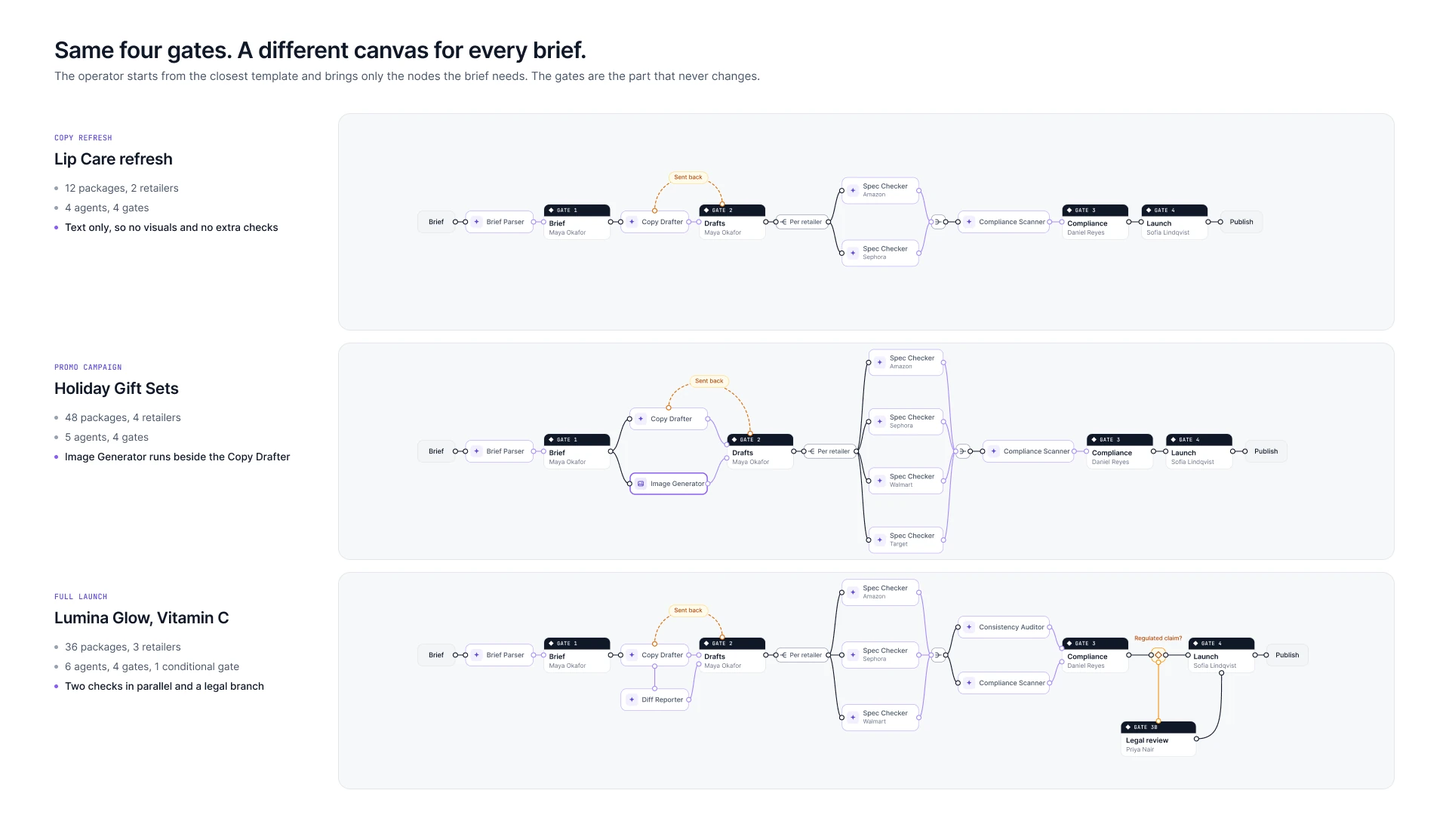
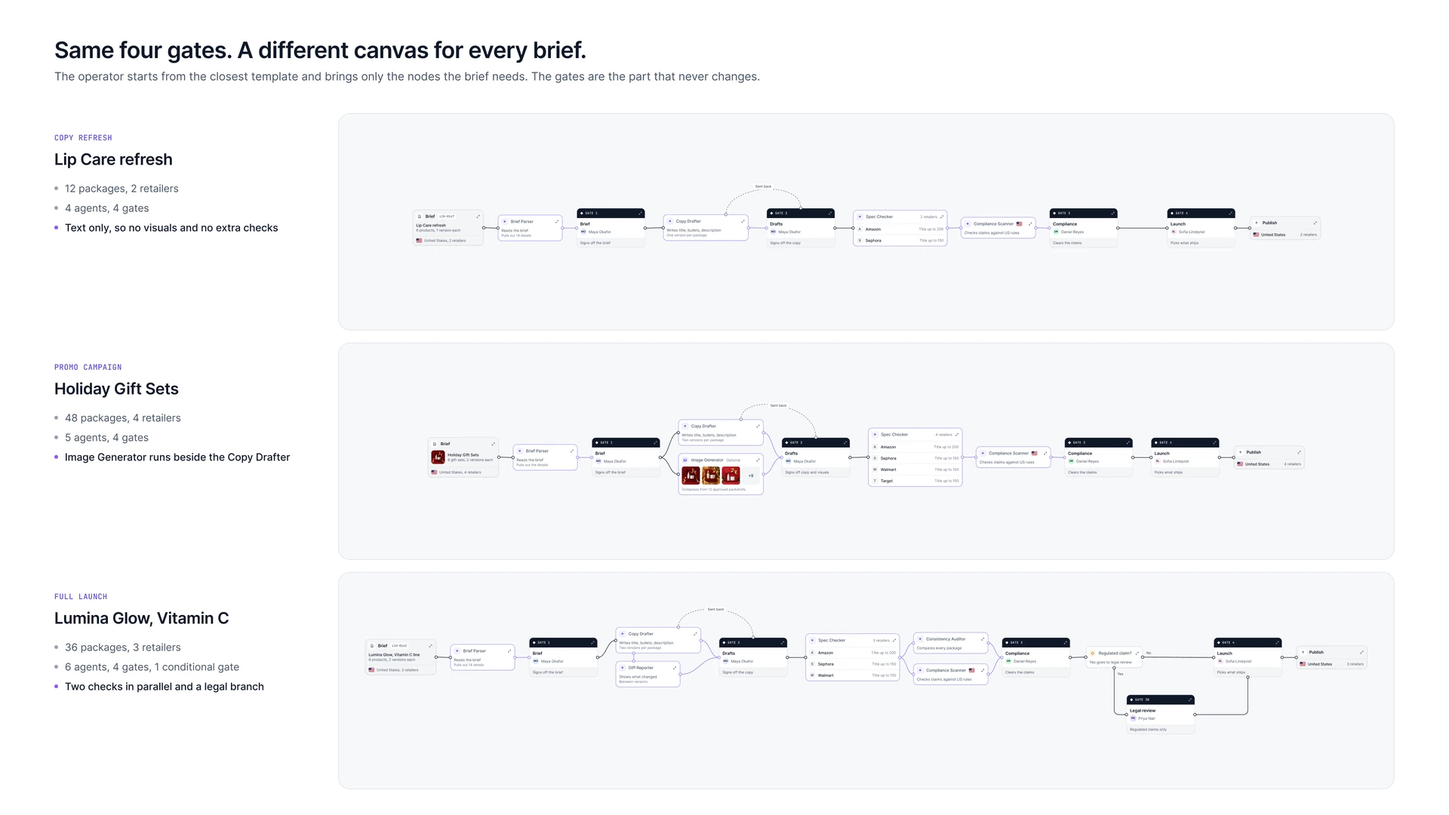
ShelfFlow: Home, three canvases, gates and Lab in the current design language
Home cards carry the launch stepper, the three canvases comparison is rebuilt
with the current nodes, Gate 1, Gate 3 evidence, Audit trail and the scope step
use the shared vocabulary, and the Lab demo draws gates with the timeline code.

Claude-Session: https://claude.ai/code/session_01HvDhLV3ZoERkt8nS9QeULq

diff --git a/work/shelfflow.html b/work/shelfflow.html
@@ -10,7 +10,7 @@
 <meta name="description" content="The supervision interface for an agentic content pipeline. Six AI agents, four human gates, 36 retailer-ready packages per brief. A case study by Inigo Angulo.">
 <meta property="og:title" content="ShelfFlow / Inigo Angulo">
 <meta property="og:description" content="The supervision interface for an agentic content pipeline. Six AI agents, four human gates, 36 retailer-ready packages per brief.">
-<meta property="og:image" content="https://inigoangulo.com/img/shelfflow/og.png?v=1125e">
+<meta property="og:image" content="https://inigoangulo.com/img/shelfflow/og.png?v=1125f">
 <meta property="og:image:width" content="1200">
 <meta property="og:image:height" content="630">
 <meta property="og:type" content="article">
@@ -18,7 +18,7 @@
 <meta name="twitter:card" content="summary_large_image">
 <meta name="twitter:title" content="ShelfFlow / Inigo Angulo">
 <meta name="twitter:description" content="The supervision interface for an agentic content pipeline. Six AI agents, four human gates, 36 retailer-ready packages per brief.">
-<meta name="twitter:image" content="https://inigoangulo.com/img/shelfflow/og.png?v=1125e">
+<meta name="twitter:image" content="https://inigoangulo.com/img/shelfflow/og.png?v=1125f">
 <link rel="preconnect" href="https://fonts.googleapis.com">
 <link rel="preconnect" href="https://fonts.gstatic.com" crossorigin>
 <link href="https://fonts.googleapis.com/css2?family=JetBrains+Mono:wght@300;400;500;600;700&family=IBM+Plex+Sans:wght@400;500;600;700&display=swap" rel="stylesheet">
@@ -89,7 +89,7 @@
   <p class="cs__sub" style="margin:-16px 0 32px;font-size:.78rem;color:var(--t3)">How to read the numbers: client figures are under NDA. "Weeks to days" is the target the product was designed for, not a published result. The numbers in the cards come from the demo launch shown in the screens: Lumina Glow, 6 SKUs, 3 retailers, 2 variants.</p>
 
   <!-- Hero visual -->
-  <div class="cs__img cs__img--wide" data-reveal><img src="../img/shelfflow/cover.png?v=1125e" alt="ShelfFlow canvas in Build mode: a library of agents and gates, and the start of the pipeline as a row of nodes with a sent back loop, above a minimap of the whole flow"></div>
+  <div class="cs__img cs__img--wide" data-reveal><img src="../img/shelfflow/cover.png?v=1125f" alt="ShelfFlow canvas in Build mode: a library of agents and gates, and the start of the pipeline as a row of nodes with a sent back loop, above a minimap of the whole flow"></div>
   <p class="cs__img-cap">The canvas for one launch. Violet nodes are agents, black ones are gates with a person's name on them.</p>
 
 
@@ -350,71 +350,71 @@
     </div>
 
   <div class="cs__screens" data-reveal>
-    <div class="cs__screen"><img src="../img/shelfflow/v4/build-place.webp?v=1125e" alt="Dragging a condition from the library onto an edge of the pipeline" width="1920" height="1080" loading="lazy" decoding="async"><span class="cs__screen-label">Place a node / the edge shows where it fits</span></div>
-    <div class="cs__screen"><img src="../img/shelfflow/v4/build-connect.webp?v=1125e" alt="Pulling a connection from the condition to a new legal review gate" width="1920" height="1080" loading="lazy" decoding="async"><span class="cs__screen-label">Connect a node / the socket shows where it lands</span></div>
+    <div class="cs__screen"><img src="../img/shelfflow/v4/build-place.webp?v=1125f" alt="Dragging a condition from the library onto an edge of the pipeline" width="1920" height="1080" loading="lazy" decoding="async"><span class="cs__screen-label">Place a node / the edge shows where it fits</span></div>
+    <div class="cs__screen"><img src="../img/shelfflow/v4/build-connect.webp?v=1125f" alt="Pulling a connection from the condition to a new legal review gate" width="1920" height="1080" loading="lazy" decoding="async"><span class="cs__screen-label">Connect a node / the socket shows where it lands</span></div>
   </div>
   <p class="cs__img-cap">Adding a branch. A condition dropped between Gate 3 and Gate 4 sends regulated claims through a legal gate, and the launch cannot run until that gate has an owner.</p>
-  <div class="cs__img" data-reveal><img src="../img/shelfflow/v4/build-refuse.webp?v=1125e" alt="The canvas refusing a connection from an agent straight to Publish" width="1920" height="1080" loading="lazy" decoding="async"></div>
+  <div class="cs__img" data-reveal><img src="../img/shelfflow/v4/build-refuse.webp?v=1125f" alt="The canvas refusing a connection from an agent straight to Publish" width="1920" height="1080" loading="lazy" decoding="async"></div>
   <p class="cs__img-cap">A line from an agent to Publish. The canvas refuses it and says why.</p>
     <div class="cs__section-text">
       <p>A real launch does not fit on one screen, and the canvas does not pretend it does. The flow reads in one direction and the operator pans along it, the way they would in any design tool. A minimap keeps the whole pipeline in view and marks the gate that is waiting. Each kind of node shows what it carries: a brief shows the product and where it sells, an agent shows what it made, a gate shows who signs.</p>
     </div>
 
-  <div class="cs__img" data-reveal><img src="../img/shelfflow/v6/run-live.webp?v=1125e" alt="The canvas in the middle of a run, panned to the checks: the Spec Checker is working through three retailers, later steps are joined by dotted lines, and a minimap in the corner shows the whole flow" width="1920" height="1080" loading="lazy" decoding="async"></div>
+  <div class="cs__img" data-reveal><img src="../img/shelfflow/v6/run-live.webp?v=1125f" alt="The canvas in the middle of a run, panned to the checks: the Spec Checker is working through three retailers, later steps are joined by dotted lines, and a minimap in the corner shows the whole flow" width="1920" height="1080" loading="lazy" decoding="async"></div>
   <p class="cs__img-cap">The same canvas halfway through a run, panned to the checks. Dotted lines have not run yet, the diamonds in the launch bar say which gate the launch has reached, and the minimap shows where this view sits in the whole flow.</p>
-  <div class="cs__img" data-reveal><img src="../img/shelfflow/v6/gate-timeline.webp?v=1125e" alt="Five moments of a gate shown in its header: Done in light grey, Now in solid dark, Up next in white, Maybe with a dotted outline and Blocked in red" width="1920" height="372" loading="lazy" decoding="async"></div>
+  <div class="cs__img" data-reveal><img src="../img/shelfflow/v6/gate-timeline.webp?v=1125f" alt="Five moments of a gate shown in its header: Done in light grey, Now in solid dark, Up next in white, Maybe with a dotted outline and Blocked in red" width="1920" height="372" loading="lazy" decoding="async"></div>
   <p class="cs__img-cap">In Build every gate is dark, because it marks where a person decides. Once the launch runs, the header tells time: finished gates go light, the one that is waiting stays dark, and a branch that may not happen is dotted. Every state also has a label, so colour is never the only signal.</p>
     <div class="cs__section-text">
       <p>Every node opens into more detail, and the canvas has to make that clear. A toolbar on every node would put around sixty controls on screen and bury the view of the whole launch. A toolbar that only appears on hover cannot be found, and does not exist on a touch screen. So visibility follows relevance, in three layers: a small mark on every node says it opens, the toolbar appears when a node is hovered or selected, and the one decision that is yours is a button inside the node, always there. What opens is as predictable: any node opens in the side panel to look, expands to a full view to study, and only the Review button on a gate starts a decision, one at a time.</p>
     </div>
 
-  <div class="cs__img" data-reveal><img src="../img/shelfflow/v6/three-layers.webp?v=1125e" alt="The same agent node at rest, on hover with its toolbar, and selected with the toolbar pinned, next to a gate whose Review button sits inside the node" width="1920" height="640" loading="lazy" decoding="async"></div>
+  <div class="cs__img" data-reveal><img src="../img/shelfflow/v6/three-layers.webp?v=1125f" alt="The same agent node at rest, on hover with its toolbar, and selected with the toolbar pinned, next to a gate whose Review button sits inside the node" width="1920" height="640" loading="lazy" decoding="async"></div>
   <p class="cs__img-cap">The same node at rest, on hover and selected. On the right, the gate that is waiting on you carries its own button.</p>
-  <div class="cs__img" data-reveal><img src="../img/shelfflow/v6/node-toolbar.webp?v=1125e" alt="A gate selected in Build mode with its toolbar above it: Change owner, open in side panel, expand, and a More menu that opens upward with Duplicate, Copy link and a locked Delete" width="1920" height="1080" loading="lazy" decoding="async"></div>
+  <div class="cs__img" data-reveal><img src="../img/shelfflow/v6/node-toolbar.webp?v=1125f" alt="A gate selected in Build mode with its toolbar above it: Change owner, open in side panel, expand, and a More menu that opens upward with Duplicate, Copy link and a locked Delete" width="1920" height="1080" loading="lazy" decoding="async"></div>
   <p class="cs__img-cap">The toolbar in Build. One action changes with the node and the other three stay put. The menu opens away from the row, so it never covers the node it belongs to.</p>
     <div class="cs__section-text">
       <p>Before any of that, the operator says where the launch goes. Markets and retailers are chosen first, because everything downstream follows from them: how many packages there are, which claims rules apply and who has to sign. Retailers depend on the market, so the choice is a grid, and the package count moves as it changes.</p>
     </div>
 
   <div class="cs__screens" data-reveal>
-    <div class="cs__screen"><img src="../img/shelfflow/v5/scope-step.webp?v=1125e" alt="Setting the scope of a launch: markets on the left, a grid of retailers per market on the right, and the package count below" width="1920" height="1080" loading="lazy" decoding="async"><span class="cs__screen-label">Scope first / markets, retailers, package count</span></div>
-    <div class="cs__screen"><img src="../img/shelfflow/v5/scope-panel.webp?v=1125e" alt="The scope panel open on the canvas, previewing what adding the United Kingdom would change" width="1920" height="1080" loading="lazy" decoding="async"><span class="cs__screen-label">On the canvas / what a second market adds</span></div>
+    <div class="cs__screen"><img src="../img/shelfflow/v5/scope-step.webp?v=1125f" alt="Setting the scope of a launch: markets on the left, a grid of retailers per market on the right, and the package count below" width="1920" height="1080" loading="lazy" decoding="async"><span class="cs__screen-label">Scope first / markets, retailers, package count</span></div>
+    <div class="cs__screen"><img src="../img/shelfflow/v5/scope-panel.webp?v=1125f" alt="The scope panel open on the canvas, previewing what adding the United Kingdom would change" width="1920" height="1080" loading="lazy" decoding="async"><span class="cs__screen-label">On the canvas / what a second market adds</span></div>
   </div>
   <p class="cs__img-cap">Lumina Glow goes to one market and three retailers: 6 products, 3 retailers, 2 variants, 36 packages. Adding the United Kingdom would add 24.</p>
-  <div class="cs__img" data-reveal><img src="../img/shelfflow/v5/scope-markets.webp?v=1125e" alt="The canvas with two markets: after the retailer checks the flow forks per market, each lane with its own Compliance Scanner rules and its own Gate 3, and the UK gate has no owner yet" width="1920" height="1080" loading="lazy" decoding="async"></div>
+  <div class="cs__img" data-reveal><img src="../img/shelfflow/v5/scope-markets.webp?v=1125f" alt="The canvas with two markets: after the retailer checks the flow forks per market, each lane with its own Compliance Scanner rules and its own Gate 3, and the UK gate has no owner yet" width="1920" height="1080" loading="lazy" decoding="async"></div>
   <p class="cs__img-cap">A second market is more than extra packages. The canvas forks per market, each lane gets its own claims rules and its own Gate 3, and the launch cannot run until the new gate has an owner.</p>
     <div class="cs__section-text">
       <p>The drawing also changes with the brief. A copy refresh on two retailers needs four agents. A seasonal promo needs new visuals, so the operator brings in an optional Image Generator that runs beside the Copy Drafter and arrives at the same gate. A new product line needs every check. ShelfFlow reads the brief and suggests the closest shape.</p>
     </div>
 
   <div class="cs__screens" data-reveal>
-    <div class="cs__screen"><img src="../img/shelfflow/v4/brief-templates.webp?v=1125e" alt="Starting a launch: four pipeline templates, with Promo campaign suggested from the brief" width="1920" height="1080" loading="lazy" decoding="async"><span class="cs__screen-label">Start from the brief / a shape is suggested</span></div>
-    <div class="cs__screen"><img src="../img/shelfflow/v4/promo-canvas.webp?v=1125e" alt="The canvas for a promo campaign, with an optional Image Generator node beside the Copy Drafter" width="1920" height="1080" loading="lazy" decoding="async"><span class="cs__screen-label">Promo canvas / an optional agent joins</span></div>
+    <div class="cs__screen"><img src="../img/shelfflow/v4/brief-templates.webp?v=1125f" alt="Starting a launch: four pipeline templates, with Promo campaign suggested from the brief" width="1920" height="1080" loading="lazy" decoding="async"><span class="cs__screen-label">Start from the brief / a shape is suggested</span></div>
+    <div class="cs__screen"><img src="../img/shelfflow/v4/promo-canvas.webp?v=1125f" alt="The canvas for a promo campaign, with an optional Image Generator node beside the Copy Drafter" width="1920" height="1080" loading="lazy" decoding="async"><span class="cs__screen-label">Promo canvas / an optional agent joins</span></div>
   </div>
   <p class="cs__img-cap">Holiday Gift Sets needs new visuals and carries no regulated claims, so the promo shape is suggested.</p>
-  <div class="cs__img" data-reveal><img src="../img/shelfflow/v4/zoom-optional-node.webp?v=1125e" alt="Close view of the promo canvas: after Gate 1 the path forks to the Copy Drafter and to an Image Generator node tagged optional that shows its packshots, and both meet at Gate 2" width="1664" height="724" loading="lazy" decoding="async"></div>
+  <div class="cs__img" data-reveal><img src="../img/shelfflow/v4/zoom-optional-node.webp?v=1125f" alt="Close view of the promo canvas: after Gate 1 the path forks to the Copy Drafter and to an Image Generator node tagged optional that shows its packshots, and both meet at Gate 2" width="1664" height="724" loading="lazy" decoding="async"></div>
   <p class="cs__img-cap">The optional node, up close. After Gate 1 the path forks: copy on one branch, visuals on the other, and both meet at Gate 2.</p>
-  <div class="cs__img" data-reveal><img src="../img/shelfflow/v4/image-node.webp?v=1125e" alt="The Image Generator node expanded: inputs, generated visuals per retailer format, boundaries and track record" width="1920" height="1080" loading="lazy" decoding="async"></div>
+  <div class="cs__img" data-reveal><img src="../img/shelfflow/v4/image-node.webp?v=1125f" alt="The Image Generator node expanded: inputs, generated visuals per retailer format, boundaries and track record" width="1920" height="1080" loading="lazy" decoding="async"></div>
   <p class="cs__img-cap">Open the node and it shows what every agent shows: what it used, what it made, and what it is not allowed to do. It composes from approved packshots, cannot add a claim or a price, and its output still waits for a person.</p>
-  <div class="cs__img" data-reveal><img src="../img/shelfflow/v4/zoom-image-node.webp?v=1125e" alt="Generated visuals for gift sets by retailer format: some ready, one redone, two still generating" width="1800" height="1194" loading="lazy" decoding="async"></div>
+  <div class="cs__img" data-reveal><img src="../img/shelfflow/v4/zoom-image-node.webp?v=1125f" alt="Generated visuals for gift sets by retailer format: some ready, one redone, two still generating" width="1800" height="1194" loading="lazy" decoding="async"></div>
   <p class="cs__img-cap">Its output: one visual per gift set and retailer format. One was redone for being off brand before anyone saw it. These images were generated for the demo.</p>
-  <div class="cs__img" data-reveal><img src="../img/shelfflow/v4/three-canvases.webp?v=1125e" alt="Three canvases compared: a copy refresh with four agents, a promo campaign with five, and a full launch with six and a legal branch" width="1920" height="1080" loading="lazy" decoding="async"></div>
-  <p class="cs__img-cap">Three briefs, three canvases: four, five and six agents. The gates do not move.</p>
+  <div class="cs__img" data-reveal><img src="../img/shelfflow/v4/three-canvases.webp?v=1125f" alt="Three canvases compared: a copy refresh with four agents, a promo campaign with five, and a full launch with six and a legal branch" width="1920" height="1080" loading="lazy" decoding="async"></div>
+  <p class="cs__img-cap">Three briefs, three canvases, drawn with the same nodes at the same zoom: four, five and six agents. The gates do not move.</p>
     <div class="cs__section-text">
       <p>A shape that worked should not be rebuilt by hand. Once a launch is live, the operator can save it as a template, and Brief Parser does the sorting: it compares past launches and splits every setting into what stays fixed, what comes filled in, and what is asked each time. The next promo is four fields instead of a brief.</p>
       <p>Templates follow the rule the rest of the product follows: agents propose and a named person decides. The operator builds a template and the Content Lead publishes it. When launches drift away from it, or a retailer changes a limit, Diff Reporter proposes a new version with its evidence. Launches already running stay on the version they started with.</p>
     </div>
 
   <div class="cs__screens" data-reveal>
-    <div class="cs__screen"><img src="../img/shelfflow/v5/template-save.webp?v=1125e" alt="Save as template: the settings of a live launch sorted into three columns, Fixed, Default and Ask every time" width="1920" height="1080" loading="lazy" decoding="async"><span class="cs__screen-label">Save as template / the agent sorts the settings</span></div>
-    <div class="cs__screen"><img src="../img/shelfflow/v5/template-launch.webp?v=1125e" alt="A new launch started from a template: four fields to fill in, next to the list of what is already decided" width="1920" height="1080" loading="lazy" decoding="async"><span class="cs__screen-label">New launch / four fields, the rest is decided</span></div>
+    <div class="cs__screen"><img src="../img/shelfflow/v5/template-save.webp?v=1125f" alt="Save as template: the settings of a live launch sorted into three columns, Fixed, Default and Ask every time" width="1920" height="1080" loading="lazy" decoding="async"><span class="cs__screen-label">Save as template / the agent sorts the settings</span></div>
+    <div class="cs__screen"><img src="../img/shelfflow/v5/template-launch.webp?v=1125f" alt="A new launch started from a template: four fields to fill in, next to the list of what is already decided" width="1920" height="1080" loading="lazy" decoding="async"><span class="cs__screen-label">New launch / four fields, the rest is decided</span></div>
   </div>
   <p class="cs__img-cap">Alex saves Holiday Gift Sets as a template. The next gift set launch asks for products, dates, the offer claim and the packshots, and nothing else.</p>
-  <div class="cs__img" data-reveal><img src="../img/shelfflow/v5/template-update.webp?v=1125e" alt="A proposed template update from version 3 to version 4: two changes with their evidence, the affected node marked on the canvas, and approve or dismiss" width="1920" height="1080" loading="lazy" decoding="async"></div>
+  <div class="cs__img" data-reveal><img src="../img/shelfflow/v5/template-update.webp?v=1125f" alt="A proposed template update from version 3 to version 4: two changes with their evidence, the affected node marked on the canvas, and approve or dismiss" width="1920" height="1080" loading="lazy" decoding="async"></div>
   <p class="cs__img-cap">Keeping it current. Image Generator was added by hand in 4 of the last 5 launches, so Diff Reporter proposes turning it on by default. Maya can approve both changes, one, or none.</p>
-  <div class="cs__img" data-reveal><img src="../img/shelfflow/v5/template-library.webp?v=1125e" alt="The template library: three templates owned by the team with their state and usage, and the three shapes that ship with ShelfFlow, locked" width="1920" height="1080" loading="lazy" decoding="async"></div>
+  <div class="cs__img" data-reveal><img src="../img/shelfflow/v5/template-library.webp?v=1125f" alt="The template library: three templates owned by the team with their state and usage, and the three shapes that ship with ShelfFlow, locked" width="1920" height="1080" loading="lazy" decoding="async"></div>
   <p class="cs__img-cap">The library. The team's templates carry a state, a version and how long they take to reach Live. The three shapes that ship with ShelfFlow can be duplicated, not edited.</p>
-  <div class="cs__img" data-reveal><img src="../img/shelfflow/v5/chip-system.webp?v=1125e" alt="The chip system: five kinds of label, each answering one question, with the life cycle of a launch, a template and a gate" width="1920" height="1080" loading="lazy" decoding="async"></div>
+  <div class="cs__img" data-reveal><img src="../img/shelfflow/v5/chip-system.webp?v=1125f" alt="The chip system: five kinds of label, each answering one question, with the life cycle of a launch, a template and a gate" width="1920" height="1080" loading="lazy" decoding="async"></div>
   <p class="cs__img-cap">Templates added a second thing that could be a draft, so every label in the product was sorted again. A chip now answers one question: where it is, what the agent is doing, what rule applies, where it came from, or how many.</p>
   <a href="/lab/hold-the-gate/" data-reveal style="display:flex;align-items:center;gap:20px;flex-wrap:wrap;background:rgba(45,212,191,.04);border:1px solid rgba(45,212,191,.25);border-radius:12px;padding:22px 26px;margin:28px 0;text-decoration:none">
     <span style="flex:1;min-width:240px">
@@ -435,48 +435,48 @@
 
     <p style="font-family:var(--m);font-size:.72rem;letter-spacing:.1em;text-transform:uppercase;color:var(--ac);margin:44px 0 10px">Before the brief / Home</p>
     <div class="cs__section-text">
-      <p>Maya runs sixteen launches at once, so her day starts on Home. Her queue comes first, then every launch by stage. A card shows what separates one launch from the next: days to launch, progress inside its stage and, when something is wrong, what.</p>
+      <p>Maya runs sixteen launches at once, so her day starts on Home. Her queue comes first, then every launch by stage. A card shows what separates one launch from the next: days to launch, progress inside its stage and, when something is wrong, what. The four diamonds in its corner are the same ones the canvas uses: green for a gate already signed, black for the one open now, outlined for the ones still ahead. A launch reads the same on the board as inside its canvas.</p>
     </div>
 
-  <div class="cs__img" data-reveal><img src="../img/shelfflow/v4/home-dashboard.webp?v=1125e" alt="ShelfFlow home: the decision queue, launches by stage, packages live this week and agent quality, above a board of sixteen launches" width="1920" height="1080" loading="lazy" decoding="async"></div>
+  <div class="cs__img" data-reveal><img src="../img/shelfflow/v4/home-dashboard.webp?v=1125f" alt="ShelfFlow home: the decision queue, launches by stage, packages live this week and agent quality, above a board of sixteen launches" width="1920" height="1080" loading="lazy" decoding="async"></div>
   <p class="cs__img-cap">Home, from the Content Lead's seat. Black is waiting on her, grey on someone else, violet is an agent working, red is an error.</p>
-  <div class="cs__img" data-reveal><img src="../img/shelfflow/v4/zoom-home-cards.webp?v=1125e" alt="Close view of launch cards with days to launch, progress bars and error states" width="1800" height="681" loading="lazy" decoding="async"></div>
+  <div class="cs__img" data-reveal><img src="../img/shelfflow/v4/zoom-home-cards.webp?v=1125f" alt="Close view of launch cards: four diamonds for the gates, days to launch, progress bars and error states" width="1800" height="680" loading="lazy" decoding="async"></div>
   <p class="cs__img-cap">Three kinds of trouble on the board: a check blocked by a missing spec sheet, an agent that timed out and is retrying, and a launch two days late.</p>
-  <div class="cs__img" data-reveal><img src="../img/shelfflow/v4/home-filter.webp?v=1125e" alt="The board filtered to launches with an error: two cards remain, with the filter conditions open" width="1864" height="500" loading="lazy" decoding="async"></div>
+  <div class="cs__img" data-reveal><img src="../img/shelfflow/v4/home-filter.webp?v=1125f" alt="The board filtered to launches with an error: two cards remain, with the filter conditions open" width="1864" height="500" loading="lazy" decoding="async"></div>
   <p class="cs__img-cap">Finding one launch among sixteen: search by name, SKU or retailer, or filter by condition.</p>
     <p style="font-family:var(--m);font-size:.72rem;letter-spacing:.1em;text-transform:uppercase;color:var(--ac);margin:44px 0 10px">13:02 to 13:14 / Gate 1, the brief</p>
     <div class="cs__section-text">
       <p>Alex submits the brief. The Brief Parser structures it into 6 SKUs and 36 packages, and stops on what it cannot settle: the brief names three markets, but every retailer and SKU is US only. Maya answers the question and locks the brief. From here it cannot change silently.</p>
     </div>
 
-  <div class="cs__img" data-reveal><img src="../img/shelfflow/v3/gate1.webp?v=1125e" alt="Gate 1: the submitted brief next to what the agent structured, field by field" width="1920" height="1080" loading="lazy" decoding="async"></div>
+  <div class="cs__img" data-reveal><img src="../img/shelfflow/v3/gate1.webp?v=1125f" alt="Gate 1: the submitted brief next to what the agent structured, field by field" width="1920" height="1080" loading="lazy" decoding="async"></div>
   <p class="cs__img-cap">Gate 1. On the left, what Alex wrote. On the right, what the agent read, with every difference marked.</p>
     <p style="font-family:var(--m);font-size:.72rem;letter-spacing:.1em;text-transform:uppercase;color:var(--ac);margin:44px 0 10px">13:17 to 13:52 / Gate 2, drafts and a loop</p>
     <div class="cs__section-text">
       <p>The Copy Drafter writes two versions of all 36 packages. Maya sends three back as too long for Sephora. She says what is wrong in one sentence, the work returns to the agent, and she is free until it comes back. Minutes later the rewrites return with the changes marked, and she approves all 36.</p>
     </div>
 
-  <div class="cs__img" data-reveal><img src="../img/shelfflow/v4/zoom-loop.webp?v=1125e" alt="Close view of the sent back loop between Gate 2 and the Copy Drafter" width="1360" height="680" loading="lazy" decoding="async"></div>
+  <div class="cs__img" data-reveal><img src="../img/shelfflow/v4/zoom-loop.webp?v=1125f" alt="Close view of the sent back loop between Gate 2 and the Copy Drafter" width="1360" height="680" loading="lazy" decoding="async"></div>
   <p class="cs__img-cap">A rejection is a loop, not a dead end. Three drafts are back with the Copy Drafter and everything downstream waits.</p>
     <p style="font-family:var(--m);font-size:.72rem;letter-spacing:.1em;text-transform:uppercase;color:var(--ac);margin:44px 0 10px">14:10 to 14:21 / The checks</p>
     <div class="cs__section-text">
       <p>Past Gate 2 the Spec Checker takes each retailer against its own limits, one row per retailer, and nothing moves on until all three fit. Then the Compliance Scanner reads every claim. On the canvas an agent says what it did in one line: packages written, retailers that fit, claims flagged. The detail is one click away.</p>
     </div>
 
-  <div class="cs__img" data-reveal><img src="../img/shelfflow/v4/zoom-split.webp?v=1125e" alt="Close view of the Spec Checker while it runs: one row per retailer, Amazon fits, Sephora and Walmart are being checked" width="1520" height="800" loading="lazy" decoding="async"></div>
+  <div class="cs__img" data-reveal><img src="../img/shelfflow/v4/zoom-split.webp?v=1125f" alt="Close view of the Spec Checker while it runs: one row per retailer, Amazon fits, Sephora and Walmart are being checked" width="1520" height="800" loading="lazy" decoding="async"></div>
   <p class="cs__img-cap">The Spec Checker while it runs. Amazon fits, Sephora and Walmart are still being checked.</p>
-  <div class="cs__img" data-reveal><img src="../img/shelfflow/v4/run-agent.webp?v=1125e" alt="Clicking the Compliance Scanner opens its essentials in a side panel" width="1920" height="1080" loading="lazy" decoding="async"></div>
+  <div class="cs__img" data-reveal><img src="../img/shelfflow/v4/run-agent.webp?v=1125f" alt="Clicking the Compliance Scanner opens its essentials in a side panel" width="1920" height="1080" loading="lazy" decoding="async"></div>
   <p class="cs__img-cap">Clicking the scanner: what it flagged, what it may and may not do, and how often its flags hold up once a person checks them.</p>
     <p style="font-family:var(--m);font-size:.72rem;letter-spacing:.1em;text-transform:uppercase;color:var(--ac);margin:44px 0 10px">14:21 to 14:52 / Gate 3, compliance</p>
     <div class="cs__section-text">
       <p>The scanner raises four flags: "clinically proven", "results in 14 days", "dermatologist approved" and "all-day protection". The other 32 packages are clear. The flags are what the agent caught, not what shipped. Daniel takes them one at a time.</p>
     </div>
 
-  <div class="cs__img" data-reveal><img src="../img/shelfflow/v6/gate-panel.webp?v=1125e" alt="Gate 3 selected on the canvas with its side panel open: four flagged claims, the count of clear packages and a Review flags button" width="1920" height="1080" loading="lazy" decoding="async"></div>
+  <div class="cs__img" data-reveal><img src="../img/shelfflow/v6/gate-panel.webp?v=1125f" alt="Gate 3 selected on the canvas with its side panel open: four flagged claims, the count of clear packages and a Review flags button" width="1920" height="1080" loading="lazy" decoding="async"></div>
   <p class="cs__img-cap">Gate 3 from Daniel's seat. Selecting the gate opens it in the side panel, where every node opens, and the decision starts from Review.</p>
-  <div class="cs__img" data-reveal><img src="../img/shelfflow/v4/gate3-review.webp?v=1125e" alt="Gate 3 opened over the canvas, showing one flagged sentence" width="1920" height="1080" loading="lazy" decoding="async"></div>
+  <div class="cs__img" data-reveal><img src="../img/shelfflow/v4/gate3-review.webp?v=1125f" alt="Gate 3 opened over the canvas, showing one flagged sentence" width="1920" height="1080" loading="lazy" decoding="async"></div>
   <p class="cs__img-cap">One flag: the sentence, the reason, a note for the agent, and a keyboard shortcut per answer. This decision also covers the same claim in two other packages.</p>
-  <div class="cs__img" data-reveal><img src="../img/shelfflow/v3/gate3-evidence.webp?v=1125e" alt="The full evidence view for one flag, with the decision panel" width="1920" height="1080" loading="lazy" decoding="async"></div>
+  <div class="cs__img" data-reveal><img src="../img/shelfflow/v3/gate3-evidence.webp?v=1125f" alt="The full evidence view for one flag, with the decision panel" width="1920" height="1080" loading="lazy" decoding="async"></div>
   <p class="cs__img-cap">The evidence behind it: the rule, the source sentence in the brief, and a suggested rewrite that is never applied on its own.</p>
     <p style="font-family:var(--m);font-size:.72rem;letter-spacing:.1em;text-transform:uppercase;color:var(--ac);margin:44px 0 10px">14:52 to 15:24 / Gate 4, the launch</p>
     <div class="cs__section-text">
@@ -484,8 +484,8 @@
     </div>
 
   <div class="cs__screens" data-reveal>
-    <div class="cs__screen"><img src="../img/shelfflow/v4/gate4-choose.webp?v=1125e" alt="Gate 4: choosing between version A and B for one product and retailer" width="1920" height="1080" loading="lazy" decoding="async"><span class="cs__screen-label">Gate 4 / one choice</span></div>
-    <div class="cs__screen"><img src="../img/shelfflow/v4/gate4-batch.webp?v=1125e" alt="Gate 4: the batch shortcut stays locked until every choice has been opened" width="1920" height="1080" loading="lazy" decoding="async"><span class="cs__screen-label">Gate 4 / the shortcut, still locked</span></div>
+    <div class="cs__screen"><img src="../img/shelfflow/v4/gate4-choose.webp?v=1125f" alt="Gate 4: choosing between version A and B for one product and retailer" width="1920" height="1080" loading="lazy" decoding="async"><span class="cs__screen-label">Gate 4 / one choice</span></div>
+    <div class="cs__screen"><img src="../img/shelfflow/v4/gate4-batch.webp?v=1125f" alt="Gate 4: the batch shortcut stays locked until every choice has been opened" width="1920" height="1080" loading="lazy" decoding="async"><span class="cs__screen-label">Gate 4 / the shortcut, still locked</span></div>
   </div>
   <p class="cs__img-cap">Two versions side by side with their character counts. On the right, the shortcut waits for six choices she has not opened yet.</p>
     <p style="font-family:var(--m);font-size:.72rem;letter-spacing:.1em;text-transform:uppercase;color:var(--ac);margin:44px 0 10px">15:24 / Live</p>
@@ -493,9 +493,9 @@
       <p>Sofia approves. One variant of each product goes live on each retailer: 18 packages, 2 hours and 22 minutes after the brief arrived.</p>
     </div>
 
-  <div class="cs__img" data-reveal><img src="../img/shelfflow/v4/run-done.webp?v=1125e" alt="The canvas after launch: every gate signed, 18 packages live" width="1920" height="1080" loading="lazy" decoding="async"></div>
+  <div class="cs__img" data-reveal><img src="../img/shelfflow/v4/run-done.webp?v=1125f" alt="The canvas after launch: every gate signed, 18 packages live" width="1920" height="1080" loading="lazy" decoding="async"></div>
   <p class="cs__img-cap">The same drawing Alex built, with every node done.</p>
-  <div class="cs__img" data-reveal><img src="../img/shelfflow/v3/audit.webp?v=1125e" alt="Audit trail view: every step in order, people in bold" width="1920" height="1080" loading="lazy" decoding="async"></div>
+  <div class="cs__img" data-reveal><img src="../img/shelfflow/v3/audit.webp?v=1125f" alt="Audit trail view: every step in order, people in bold" width="1920" height="1080" loading="lazy" decoding="async"></div>
   <p class="cs__img-cap">The audit trail for this launch. People are in bold and each gate decision is tagged, so "who approved this claim?" is one row with a name and a time.</p>
   </div>
 

diff --git a/index.html b/index.html
@@ -936,7 +936,7 @@ window.addEventListener('DOMContentLoaded',function(){
 
 <div class="layer layer--raised"><div class="mx"><div class="sh"><span>// work</span></div>
 <div class="cards">
-<a href="work/shelfflow.html" class="cd cd--f cd--5"><div class="cd__img"><img src="img/shelfflow/flagship-card.webp?v=1125e" width="2374" height="1118" decoding="async" alt="ShelfFlow: six agents do the work, four people decide what ships" style="width:100%;height:100%;object-fit:cover;object-position:center;position:absolute;inset:0"></div><div class="cd__body"><div class="cd__type"><span class="cd__tag cd__tag--who">Enterprise CPG / NDA</span><span class="cd__tag cd__tag--what">Agentic Pipeline</span><span class="cd__tag cd__tag--result">1 Brief &#8594; 36 Packages</span><span class="cd__tag cd__tag--live">Interactive Demo</span></div><h3 class="cd__name">ShelfFlow</h3><p class="cd__desc">The supervision interface for an agentic content pipeline: six AI agents generate and adapt, four human gates decide what ships across retailers.</p><div class="cd__foot"><span class="cd__yr">View case study</span><span class="cd__go">&#8594;</span></div></div></a>
+<a href="work/shelfflow.html" class="cd cd--f cd--5"><div class="cd__img"><img src="img/shelfflow/flagship-card.webp?v=1125f" width="2374" height="1118" decoding="async" alt="ShelfFlow: six agents do the work, four people decide what ships" style="width:100%;height:100%;object-fit:cover;object-position:center;position:absolute;inset:0"></div><div class="cd__body"><div class="cd__type"><span class="cd__tag cd__tag--who">Enterprise CPG / NDA</span><span class="cd__tag cd__tag--what">Agentic Pipeline</span><span class="cd__tag cd__tag--result">1 Brief &#8594; 36 Packages</span><span class="cd__tag cd__tag--live">Interactive Demo</span></div><h3 class="cd__name">ShelfFlow</h3><p class="cd__desc">The supervision interface for an agentic content pipeline: six AI agents generate and adapt, four human gates decide what ships across retailers.</p><div class="cd__foot"><span class="cd__yr">View case study</span><span class="cd__go">&#8594;</span></div></div></a>
 <a href="work/acervo.html" class="cd cd--f cd--1"><div class="cd__img"><img src="img/acervo-card.webp" width="2374" height="1118" decoding="async" alt="Acervo private automotive collections" style="width:100%;height:100%;object-fit:cover;object-position:center;position:absolute;inset:0"></div><div class="cd__body"><div class="cd__type"><span class="cd__tag cd__tag--who">Acervo / Private client, Mexico</span><span class="cd__tag cd__tag--what">AI Build / Agent Team</span><span class="cd__tag cd__tag--result">17 Days to Production</span><span class="cd__tag cd__tag--live">Live at app.acervogroup.com</span></div><h3 class="cd__name">Acervo</h3><p class="cd__desc">A private platform for a serious car collection, built for a private collector in Mexico. Scoped, designed and shipped solo with eight AI agents under two human gates.</p><div class="cd__foot"><span class="cd__yr">View case study</span><span class="cd__go">&#8594;</span></div></div></a>
 <a href="work/checkout.html" class="cd cd--3"><div class="cd__img"><img src="img/gyg-card.webp?v=1118w" width="1920" height="1200" decoding="async" loading="lazy" alt="GetYourGuide checkout redesign: the funnel leaked between steps, +11% conversion" style="width:100%;height:100%;object-fit:cover;position:absolute;inset:0"></div><div class="cd__body"><div class="cd__type"><span class="cd__tag cd__tag--who">GetYourGuide</span><span class="cd__tag cd__tag--what">CRO / 10 A/B Tests</span><span class="cd__tag cd__tag--result">+11% Conversion</span><span class="cd__tag cd__tag--live">Live in Production</span></div><h3 class="cd__name">Checkout Funnel Redesign</h3><p class="cd__desc">The team was optimizing the wrong step. 38% of converters left checkout and came back to nothing. Ten experiments on the gap nobody measured.</p><div class="cd__foot"><span class="cd__yr">View case study</span><span class="cd__go">&#8594;</span></div></div></a>
 <div class="cards__side">

diff --git a/lab/hold-the-gate/app.html b/lab/hold-the-gate/app.html
@@ -303,9 +303,10 @@ function agent(k,x,y,w,label,sub,pop){var st=S.st[k],run=S.phase!=='build',dim=r
  +(sub?'<text x="'+(x+33)+'" y="'+(y+11)+'" font-size="9.5" fill="'+(flag?'#b42318':'#667085')+'" font-weight="'+(flag?600:400)+'">'+sub+'</text>':'')+'</g>'}
 function gate(k,x,y,w,num,name,person,pop,warn){var st=S.st[k],run=S.phase!=='build',dim=run&&!st,turn=st==='turn';
  return '<g class="nd'+(pop?' pop':'')+'"><rect x="'+x+'" y="'+(y-26)+'" width="'+w+'" height="52" rx="9" fill="#fff" stroke="'+(turn?INK:warn?'#fedf89':'#e4e7ec')+'" stroke-width="'+(turn?2:1)+'"/>'
- +'<path d="M'+x+' '+(y-8)+'V'+(y-17)+'a9 9 0 0 1 9-9H'+(x+w-9)+'a9 9 0 0 1 9 9V'+(y-8)+'Z" fill="'+(dim?'#98a2b3':INK)+'"/>'
- +'<path transform="translate('+(x+8)+','+(y-21)+')" d="M4 0l4 4-4 4-4-4z" fill="#fff"/><text class="mono" x="'+(x+21)+'" y="'+(y-13.5)+'" font-size="8.5" fill="#fff" letter-spacing=".5">'+num+'</text>'
- +(st==='done'?'<path transform="translate('+(x+w-18)+','+(y-23)+')" d="M2 6.5l2.8 2.8L10 3.5" fill="none" stroke="#fff" stroke-width="1.7" stroke-linecap="round" stroke-linejoin="round"/>':'')
+ +'<path d="M'+(x+.5)+' '+(y-8)+'V'+(y-17)+'a8.5 8.5 0 0 1 8.5-8.5H'+(x+w-9)+'a8.5 8.5 0 0 1 8.5 8.5V'+(y-8)+'Z" fill="'+(dim?'#fff':st==='done'?'#eef0f3':INK)+'"/>'
+ +(dim?'<path d="M'+x+' '+(y-8)+'H'+(x+w)+'" stroke="#e4e7ec"/>':'')
+ +'<path transform="translate('+(x+8)+','+(y-21)+')" d="M4 0l4 4-4 4-4-4z" fill="'+(dim?'none':st==='done'?INK:'#fff')+'"'+(dim?' stroke="#667085"':'')+'/><text class="mono" x="'+(x+21)+'" y="'+(y-13.5)+'" font-size="8.5" fill="'+(dim?'#667085':st==='done'?INK:'#fff')+'" letter-spacing=".5">'+num+'</text>'
+ +(st==='done'?'<path transform="translate('+(x+w-18)+','+(y-23)+')" d="M2 6.5l2.8 2.8L10 3.5" fill="none" stroke="#067647" stroke-width="1.7" stroke-linecap="round" stroke-linejoin="round"/>':'')
  +'<text x="'+(x+9)+'" y="'+(y+6)+'" font-size="11.5" font-weight="600" fill="'+INK+'">'+name+'</text><text x="'+(x+9)+'" y="'+(y+19)+'" font-size="10" fill="'+(turn?INK:warn?'#b54708':'#667085')+'" font-weight="'+(turn||warn?600:400)+'"'+(turn?' class="blink"':'')+(warn?' text-decoration="underline"':'')+'>'+(turn&&k==='g4'?'Your turn':person)+'</text></g>'}
 function slot(x,w,a){var on=S.hover===a;
  return '<g'+(on?'':' class="blink"')+'><rect x="'+x+'" y="98" width="'+w+'" height="44" rx="10" fill="'+(on?'#f2f0fe':'#f7f8fa')+'" stroke="#8b5cf6" stroke-width="'+(on?2:1.2)+'" stroke-dasharray="5 4"/><text x="'+(x+w/2)+'" y="124" text-anchor="middle" font-size="10.5" font-weight="500" fill="'+V7+'">'+(on?'Release to insert':'Drop it on this line')+'</text></g>'}
